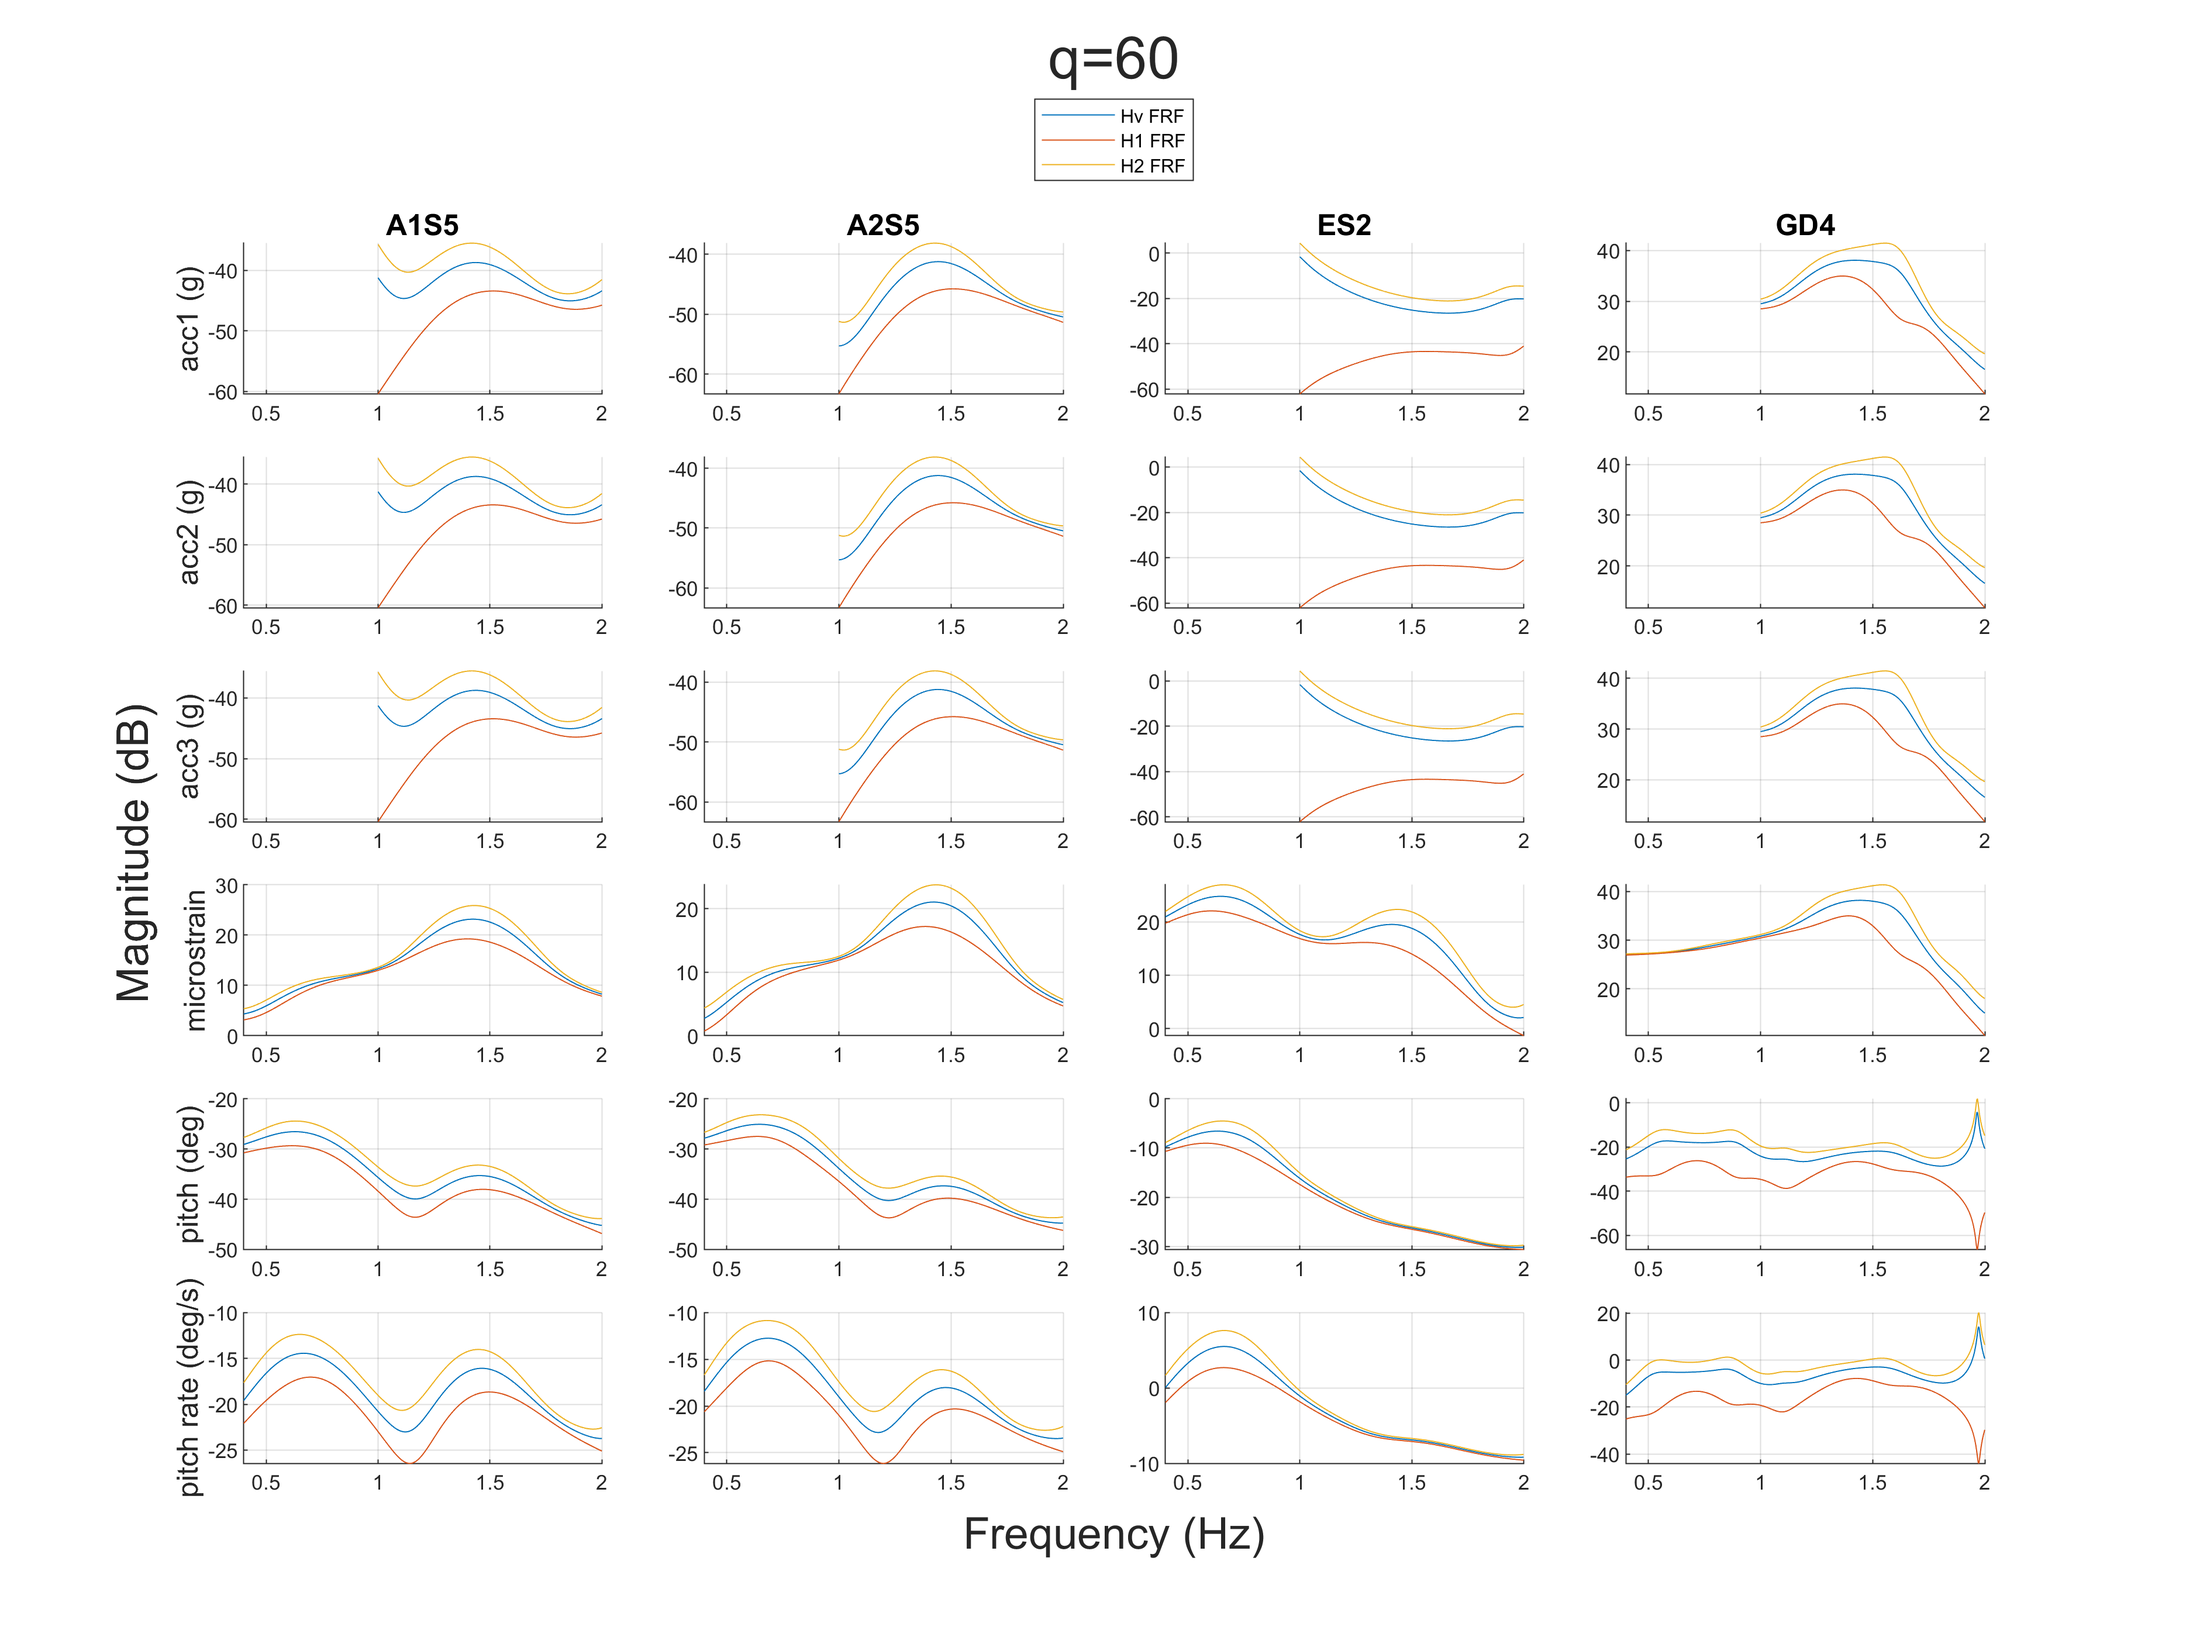
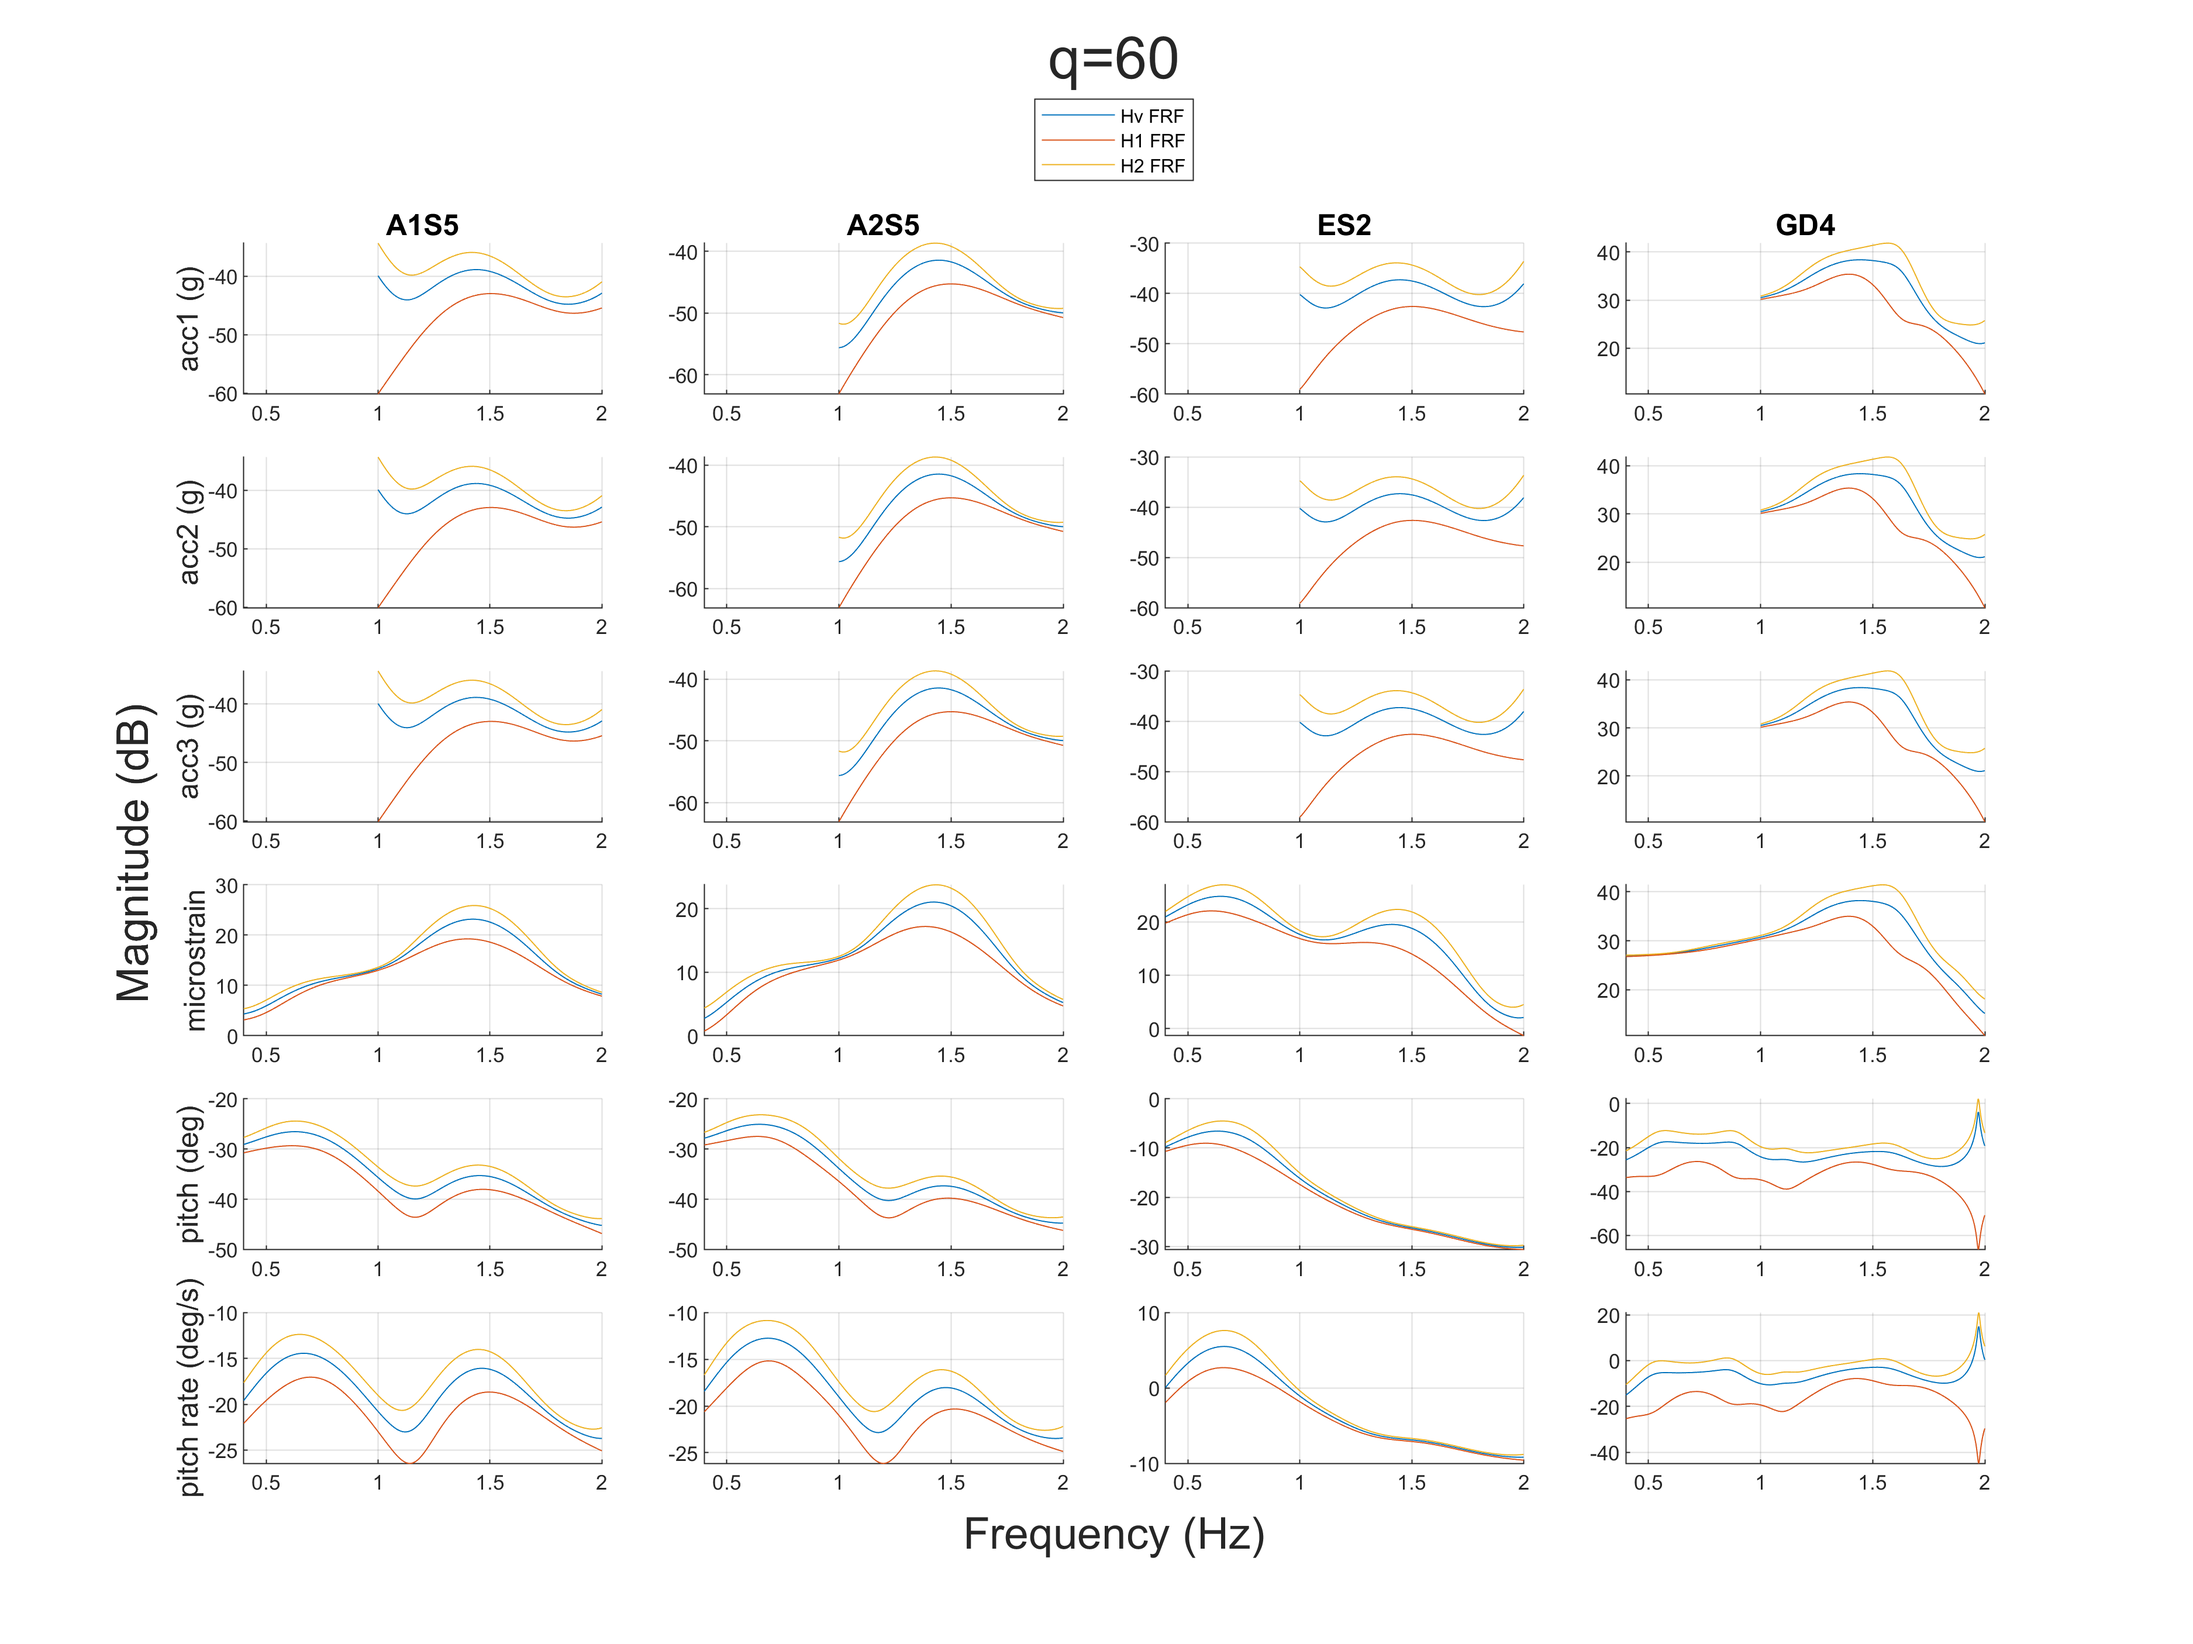
updated accel filtering

diff --git a/windTunnel/postprocessWindTunnel.m b/windTunnel/postprocessWindTunnel.m
@@ -100,37 +100,28 @@ for idxInput = 1:length(inputs)
         %% IMPORT
         d = data(idxRun);
         
-        % find locations of relevant data in output.mat object
-        elemNames = string(getElementNames(d));
-        idxCmd = find(elemNames=="cmd");
-        idxGust = find(elemNames=="gust cmd");
-        idxPlant = find(elemNames=="Plant:1");
-        idxAcc1 = find(elemNames=="accel1_filtered");
-        idxAcc2 = find(elemNames=="accel2_filtered");
-        idxAcc3 = find(elemNames=="accel3_filtered");
-        idxStrain = find(elemNames=="microstrain");
-
-        % time vector
-        t = d{idxStrain}.Values.Time;
-        rate = (length(t)-1)/(t(end)-t(1));
-        
         % input data
-        u_elev = d{idxCmd}.Values.elevator.Data;
-        u_ail1 = d{idxCmd}.Values.aileron_1.Data;
-        u_ail2 = d{idxCmd}.Values.aileron_2.Data;
-        u_gust = d{idxGust}.Values.Data;
-        if(length(u_gust)==length(u_ail1)-1) % if gust missing a step
-            u_gust = [u_gust;0];
+        u_elev = get(d,'cmd').Values.elevator.Data;
+        u_ail1 = get(d,'cmd').Values.aileron_1.Data;
+        u_ail2 = get(d,'cmd').Values.aileron_2.Data;
+        u_gust = get(d,'gust cmd').Values.Data;
+        if(length(u_gust)==length(u_ail1)-1) % if gust data missing a point
+            u_gust = [u_gust;0]; % assume the missing point is the last one
         end
         u = [u_ail1,u_ail2,u_elev,u_gust];
+
+        % time vector
+        t = get(d,'cmd').Values.elevator.Time;
+        rate = (length(t)-1)/(t(end)-t(1));
         
         % output data 
-        theta = d{idxPlant}.Values.theta.Data;
-        thetaDot = [diff(theta)*rate;0];
-        acc1 = d{idxAcc1}.Values.Data;
-        acc2 = d{idxAcc2}.Values.Data;
-        acc3 = d{idxAcc3}.Values.Data;
-        strain = d{idxStrain}.Values.Data;
+        theta = get(d,'Plant:1').Values.theta.Data;
+        temp = diff(theta)*rate;
+        thetaDot = ([temp(1);temp]+[temp;temp(end)])/2; % numerical derivative
+        acc1 = get(d,'Plant:1').Values.accel_1.Data;
+        acc2 = get(d,'Plant:1').Values.accel_2.Data;
+        acc3 = get(d,'Plant:1').Values.accel_3.Data;
+        strain = get(d,'microstrain').Values.Data;
         y = [acc1,acc2,acc3,strain,theta,thetaDot];
 
         %% SHIFT AND TRUCATE
@@ -156,7 +147,7 @@ for idxInput = 1:length(inputs)
         t = t-t(1);
     
         % zero-mean everything
-        u = u-mean(u);
+        % u = u-mean(u); % do not zero input ! -2023/10/02 John's advice
         y = y-mean(y);
             % NOTE: if data is truncated again in the future, it will have
             % to be centered again as well
@@ -180,10 +171,10 @@ end
 %% SAVE TIME-DOMAIN DATA
 for idxSpeed = 1:length(speeds)
 for idxInput = 1:length(inputs)
-    % data = dataObjs(:,idxInput,idxSpeed);
-    % savename = strcat('./wtData/','TIME_',data.fullTitle);
-    % save(savename,'data')
-    % disp(['saved ',char(savename)])
+    data = dataObjs(:,idxInput,idxSpeed);
+    savename = strcat('./wtData/','TIME_',data.fullTitle);
+    save(savename,'data')
+    disp(['saved ',char(savename)])
 end
 end
 
@@ -231,7 +222,11 @@ clear combinedObjs;
 
 %% PLOT TIME-SERIES DATA
 for idxObj = 1:numel(dataObjs)
-    % plotTimeObj(dataObjs(idxObj))
+    % plot
+    plotTimeObj(dataObjs(idxObj))
+
+    % save plot
+    print(['TIME_',char(dataObjs(idxObj).fullTitle),'.png'],'-dpng','-r300')
 end
 
 %% COMPUTE FRFS
@@ -244,11 +239,11 @@ N = 2500; % window = 5 seconds (data rate is 500 Hz)
 w = [0.4,2]; % bandwidth, Hz
 
 % compute FRFs
-parfor idxSpeed = 1:6
+for idxSpeed = 1:6
 for idxInput = 1:4
 % for idxSpeed = 1:length(speeds)
 % for idxInput = 1:length(inputs)
-    frfObjs(idxInput,idxSpeed) = computeObjFRF(dataObjs(idxInput,idxSpeed),N,w);
+    frfObjs(idxInput,idxSpeed) = computeObjFRF(dataObjs(idxInput,idxSpeed),N,w,rate);
 end
 end
 
@@ -285,6 +280,7 @@ function plotTimeObj(dataObj)
 % plots time-response dataObj
 
     t = dataObj.t;
+    rate = (length(t)-1)/(t(end)-t(1)); 
     u = dataObj.u;
     y = dataObj.y;
 
@@ -295,8 +291,14 @@ function plotTimeObj(dataObj)
     % microstrain --> hundreds microstrain
     y(:,4) = y(:,4)*0.01;
 
+    % filter accels
+    for idxAcc = 1:3
+        y(:,idxAcc) = accelFilter(y(:,idxAcc),rate);
+    end
+
     % initailize figure
     fig = figure;
+    fig.Position = [0,0,1500,750];
     tl = tiledlayout(2,1);
 
     % labeling
@@ -389,7 +391,7 @@ function plotFrfObj(dataObjs)
 end
 
 %%
-function frfObj = computeObjFRF(dataObj,N,w)
+function frfObj = computeObjFRF(dataObj,N,w,rate)
 % INPUTs
     % dataObj : time-domain dataObj
     % N       : window size
@@ -411,8 +413,12 @@ function frfObj = computeObjFRF(dataObj,N,w)
                 w_acc = [1,2]; % Hz
     
                 % bandpass 0.6 to 20 Hz of time data
-                u = bandpass(u,[0.6,20],dataObj.rate);
-                y = bandpass(y,[0.6,20],dataObj.rate);
+                % u = bandpass(u,[0.6,20],dataObj.rate); % commented out on 2023-10-02
+                % y = bandpass(y,[0.6,20],dataObj.rate);
+
+                % bandpass 0.8 to 25 Hz of time data
+                u = accelFilter(u,rate);
+                y = accelFilter(y,rate);
 
                 % discard first 4 seconds of data
                 u = u(4*round(dataObj.rate):end);
@@ -445,4 +451,11 @@ function frfObj = computeObjFRF(dataObj,N,w)
     end
     % "robust" Hv FRF
     frfObj.Hv_FRF = 0.5*(frfObj.H1_FRF+frfObj.H2_FRF);
+end
+
+%%
+function xNew = accelFilter(x,rate)
+    w = [0.8,25];
+    [b_,a_] = butter(3,w/rate,'bandpass'); % see John DM 2023-10-02
+    xNew = filter(b_,a_,x);
 end

diff --git a/Anthony_ASE_SS_driver.m b/Anthony_ASE_SS_driver.m
@@ -65,7 +65,9 @@ strainId = [2003];
 % pitch sensor node ID
 pitchId = [2003];
 
+% ------------------------------------------------------------------------+ 
 %% MODEL TUNING CHANGES (PRE-GENERATION)
+% ------------------------------------------------------------------------+
 
 % small model (2-DOF 0-LAG)
 ns = 2;
@@ -169,7 +171,9 @@ Dc(5:6,:,:) = Dc(5:6,:,:)*rad2deg(1);
 C(5:6,:,:) = -C(5:6,:,:);
 Dc(5:6,:,:) = -Dc(5:6,:,:);
 
+% ------------------------------------------------------------------------+
 %% MODEL TUNING CHANGES (POST-GENERATION)
+% ------------------------------------------------------------------------+
 
 % John's CIFER correction
 % A(ns+1,2,:) = 1300*A(ns+1,2,:);
